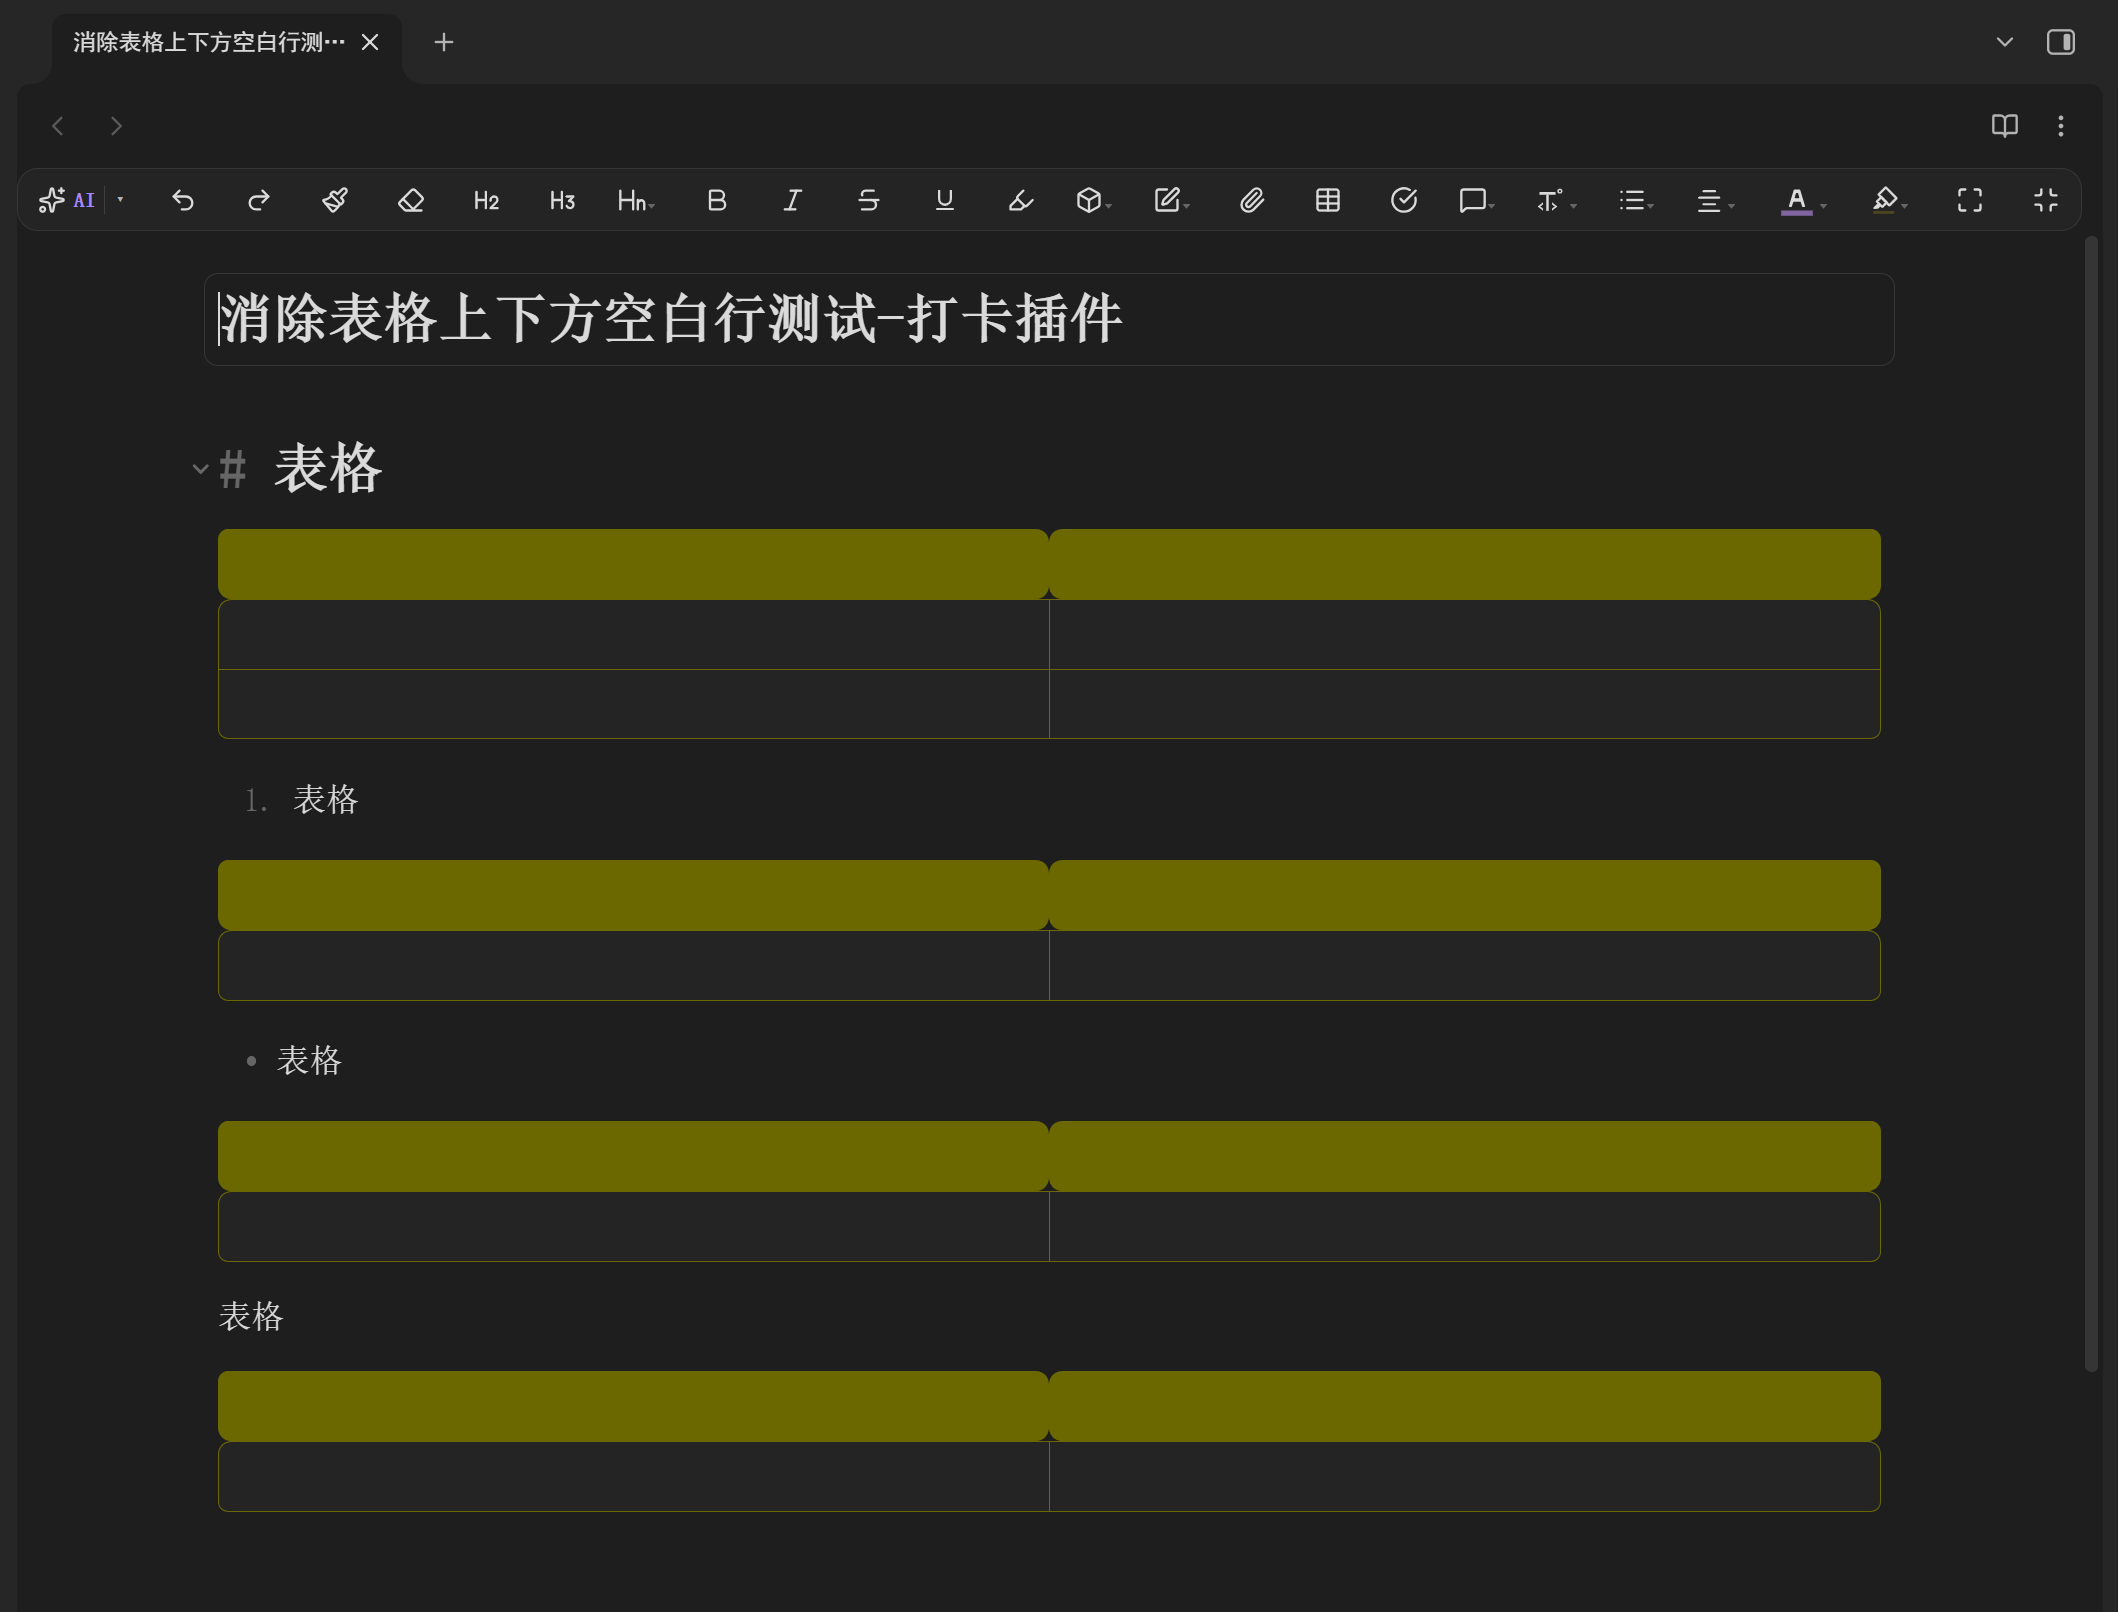
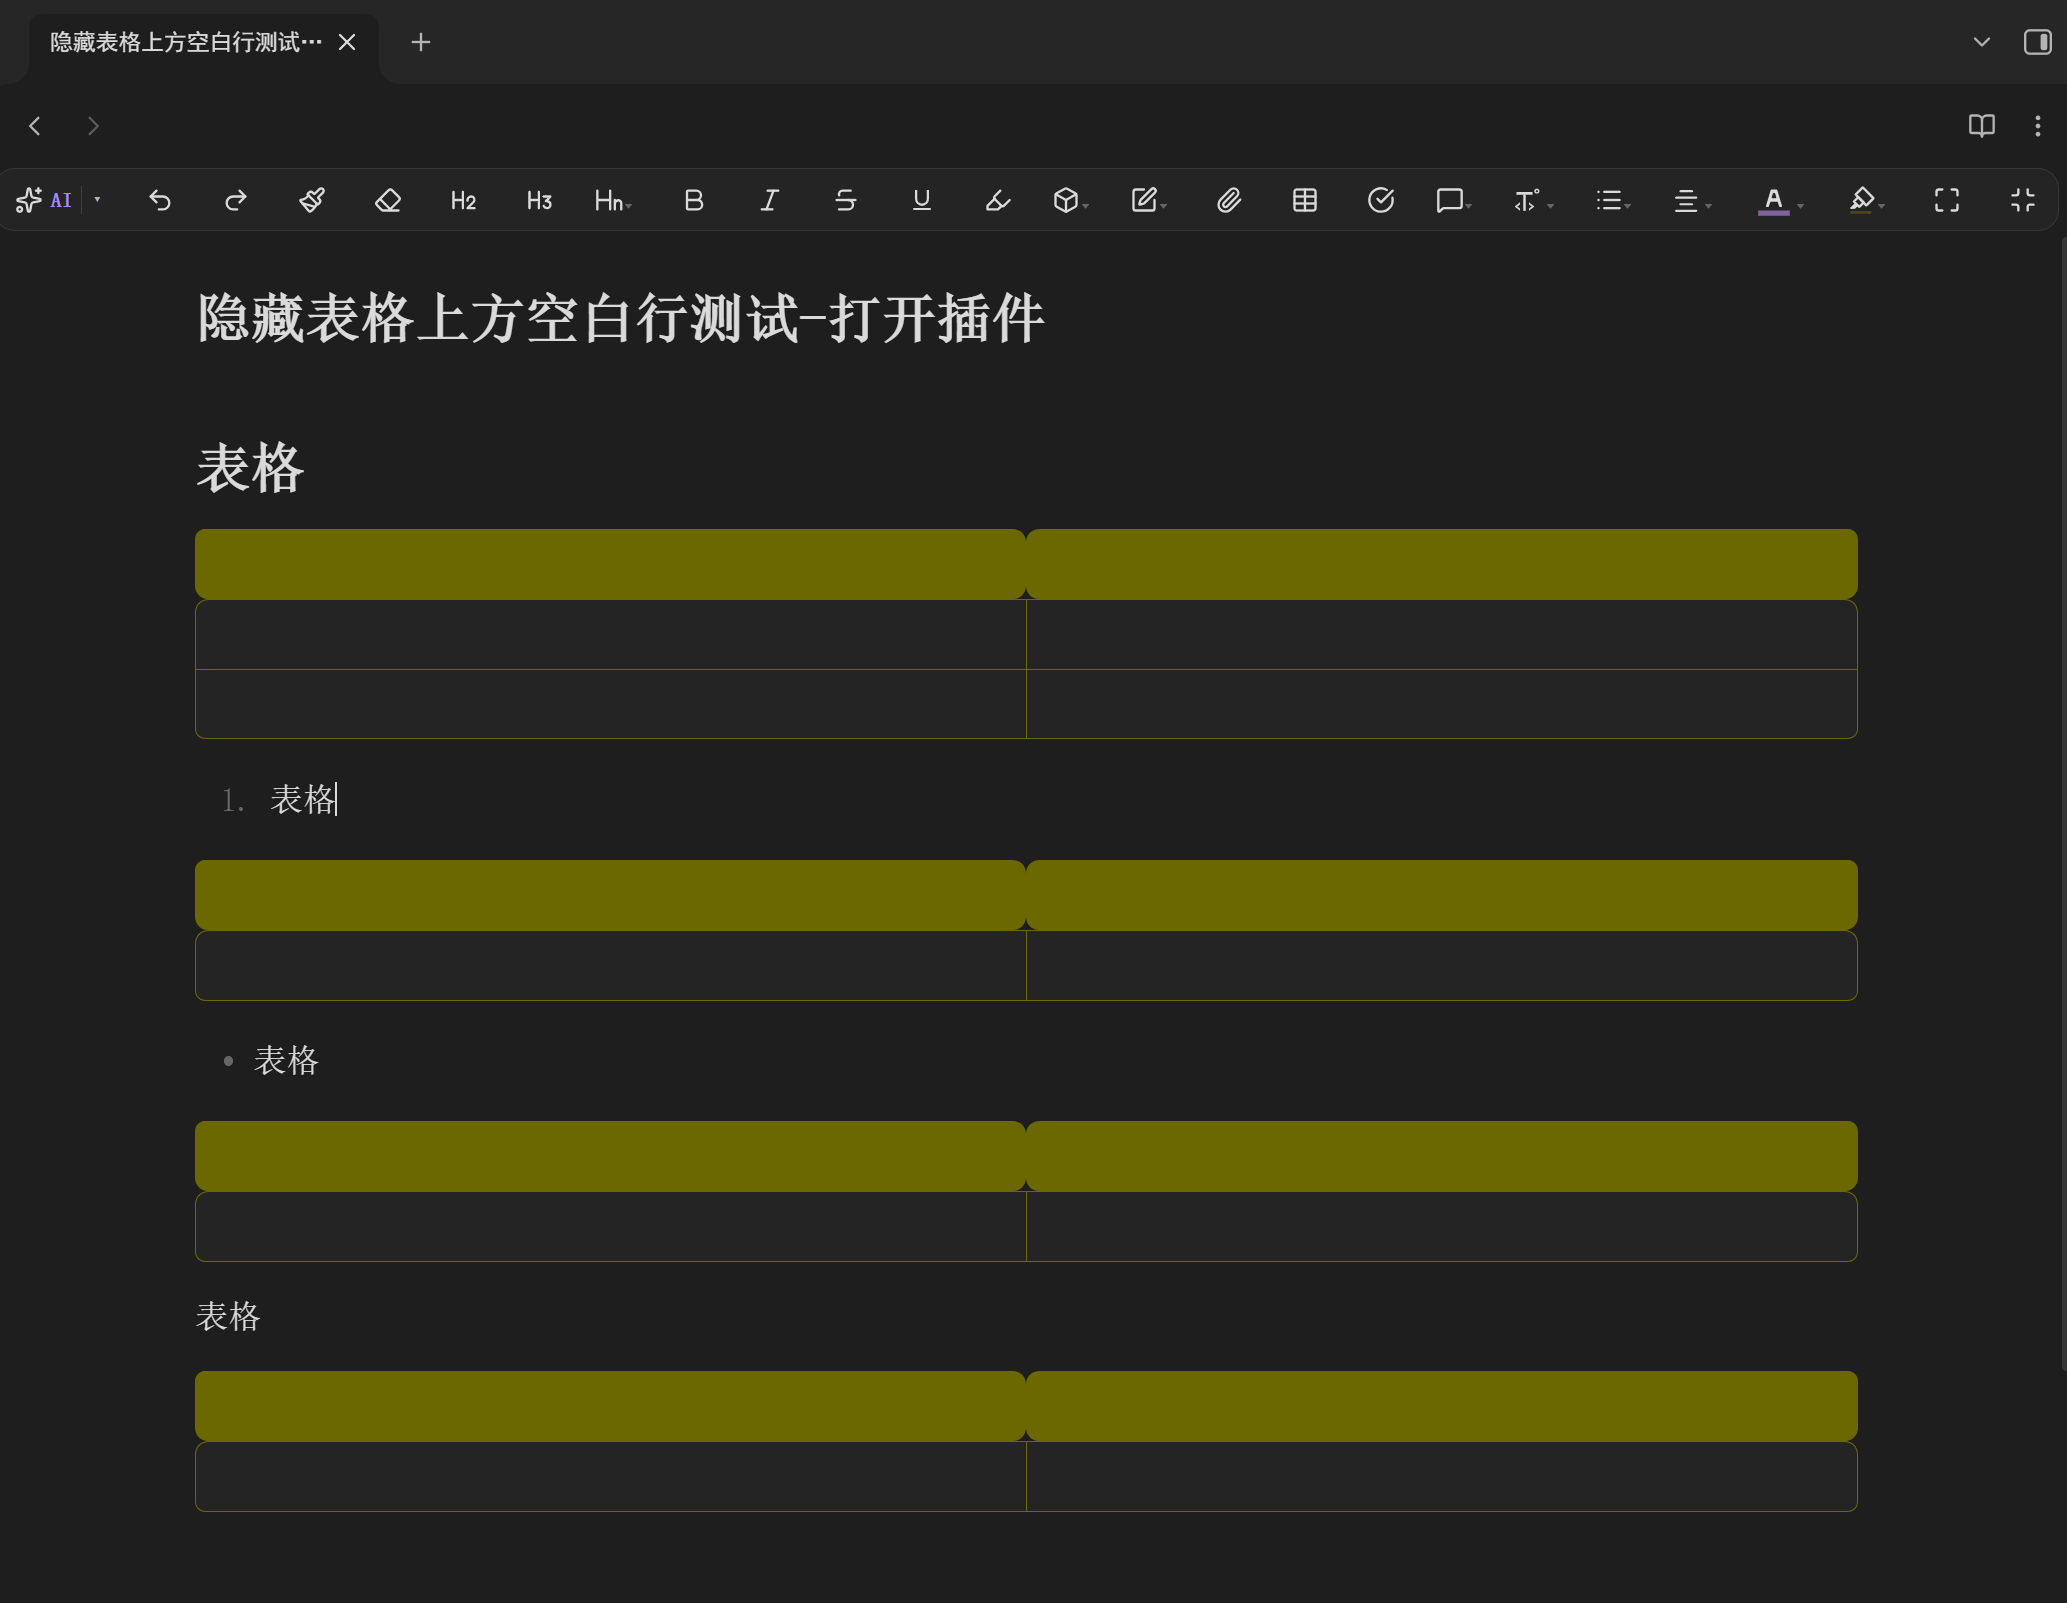
docs: 描述统一为隐藏表格上方空行

diff --git a/README.zh.md b/README.zh.md
@@ -4,13 +4,13 @@
 
 </div>
 
-# Table Gap Remover（消除表格上下方空行）
+# Table Gap Remover（消除表格上方空行）
 
-在 Obsidian 的 **实时预览（Live Preview）** 模式下，隐藏表格上方与下方的多余空行。
+在 Obsidian 的 **实时预览（Live Preview）** 模式下，隐藏表格上方的多余空行。
 
 ## 问题
 
-在实时预览中，表格（`| ... |`）上方与下方总会渲染出额外的空行。这些空行可被点击，且视觉上很干扰。
+在实时预览中，表格（`| ... |`）上方总会渲染出一条额外的空行。这条空行可被点击，且视觉上很干扰。
 
 普通的 CSS 代码片段和内联样式方案都无法移除它 —— Obsidian 的 CodeMirror 6 编辑器会在每一帧重新渲染，并覆盖任何外部样式。
 
@@ -19,7 +19,6 @@
 本插件使用官方的 **CodeMirror 6 Decoration + Theme** API，将这些空行作为编辑器自身渲染流程的一部分进行隐藏。被隐藏的空行从布局中移除，但**源 Markdown 文本永远不会被修改**。
 
 - 表格（`|`）上方的空行 → 隐藏
-- 表格（`|`）下方的空行 → 隐藏
 - 普通段落之间的正常分段空行 → **保留**
 
 ## 安装
@@ -34,15 +33,15 @@
 
 ## 工作原理
 
-插件注册了一个 CodeMirror 6 `ViewPlugin`，为「紧贴表格行上方或下方」的空行添加 `rhg-gap-line` 装饰类。再通过 `EditorView.theme` 以最高优先级将这些空行折叠为零高度。
+插件注册了一个 CodeMirror 6 `ViewPlugin`，为「紧贴表格行上方」的空行添加 `rhg-gap-line` 装饰类。再通过 `EditorView.theme` 以最高优先级将这些空行折叠为零高度。
 
 ## 效果演示
 
-修复前（未开启 Table Gap Remover —— 表格上方与下方的空行可见且可点击）：
+修复前（未开启 Table Gap Remover —— 表格上方的空行可见且可点击）：
 
 ![before](测试图片-未打开插件.png)
 
-启用 Table Gap Remover 后，表格上方与下方的空行均消失：
+启用 Table Gap Remover 后，表格上方的空行消失：
 
 ![after](测试图片-打开插件.png)
 

diff --git a/README.md b/README.md
@@ -6,11 +6,11 @@
 
 # Table Gap Remover
 
-Hide the blank lines above and below tables in Obsidian **Live Preview** mode.
+Hide the blank line above tables in Obsidian **Live Preview** mode.
 
 ## Problem
 
-In Live Preview, a table (`| ... |`) always renders with extra blank lines above and below it. Those lines are clickable and visually distracting.
+In Live Preview, a table (`| ... |`) always renders with an extra blank line above it. That line is clickable and visually distracting.
 
 Standard CSS snippets and inline-style hacks cannot remove it — Obsidian's CodeMirror 6 editor re-renders and overwrites any external style on every frame.
 
@@ -19,7 +19,6 @@ Standard CSS snippets and inline-style hacks cannot remove it — Obsidian's Cod
 This plugin uses the official **CodeMirror 6 Decoration + Theme** API to hide those blank lines as part of the editor's own rendering pipeline. The hidden line is removed from layout but the source markdown is never modified.
 
 - Blank line **above a table** (`|`) → hidden
-- Blank line **below a table** (`|`) → hidden
 - Normal paragraph breaks (empty line between two text blocks) → **kept**
 
 ## Installation
@@ -34,15 +33,15 @@ Copy the `table-gap-remover` folder into your vault's `.obsidian/plugins/` direc
 
 ## How it works
 
-The plugin registers a CodeMirror 6 `ViewPlugin` that adds a `rhg-gap-line` decoration class to empty lines directly above or below a table row. An `EditorView.theme` with maximum priority collapses those lines to zero height.
+The plugin registers a CodeMirror 6 `ViewPlugin` that adds a `rhg-gap-line` decoration class to empty lines directly above a table row. An `EditorView.theme` with maximum priority collapses those lines to zero height.
 
 ## Demo
 
-Before (Table Gap Remover disabled — blank lines above and below the table are visible and clickable):
+Before (Table Gap Remover disabled — the blank line above the table is visible and clickable):
 
 ![before](测试图片-未打开插件.png)
 
-After enabling Table Gap Remover, the gaps above and below the table disappear:
+After enabling Table Gap Remover, the gap above the table disappears:
 
 ![after](测试图片-打开插件.png)
 